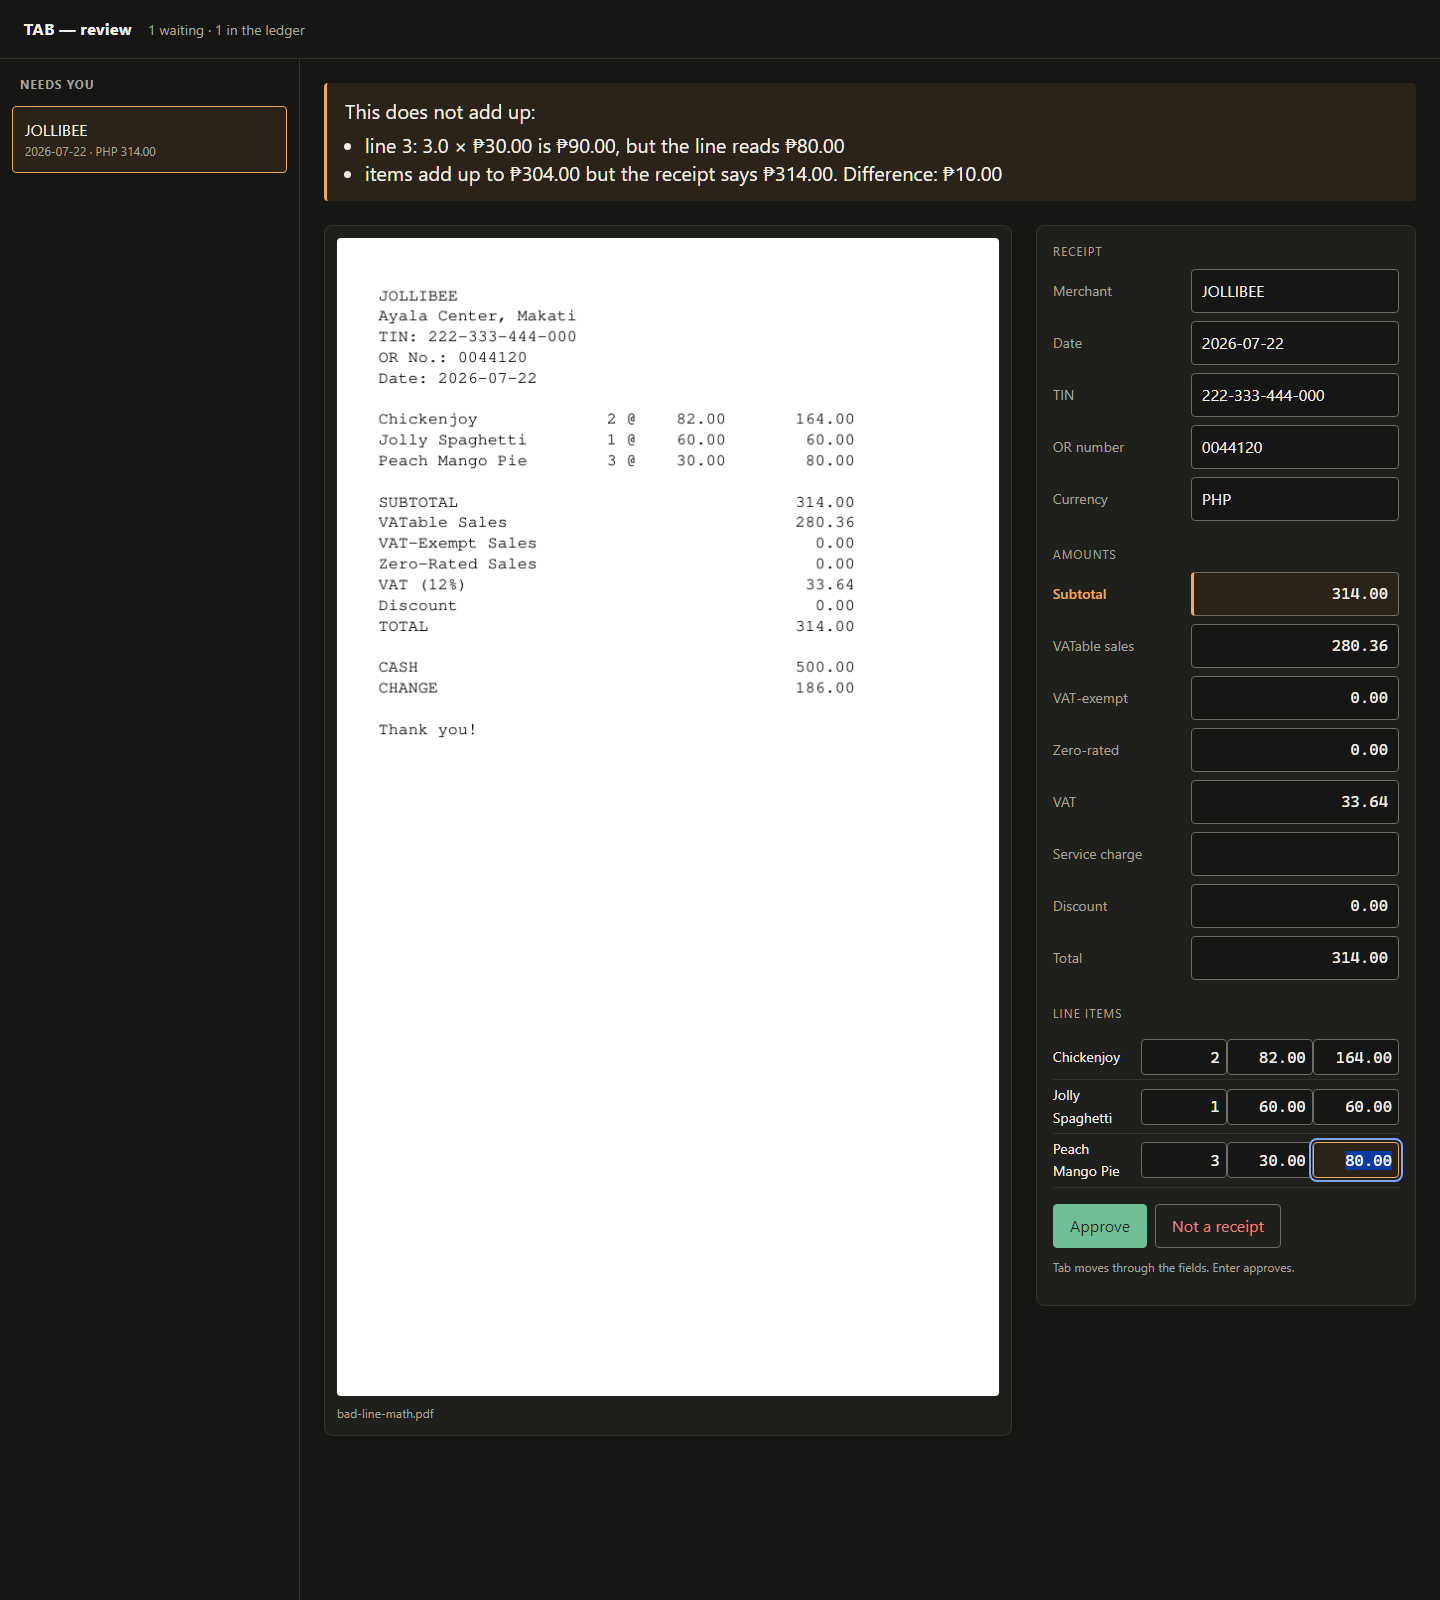
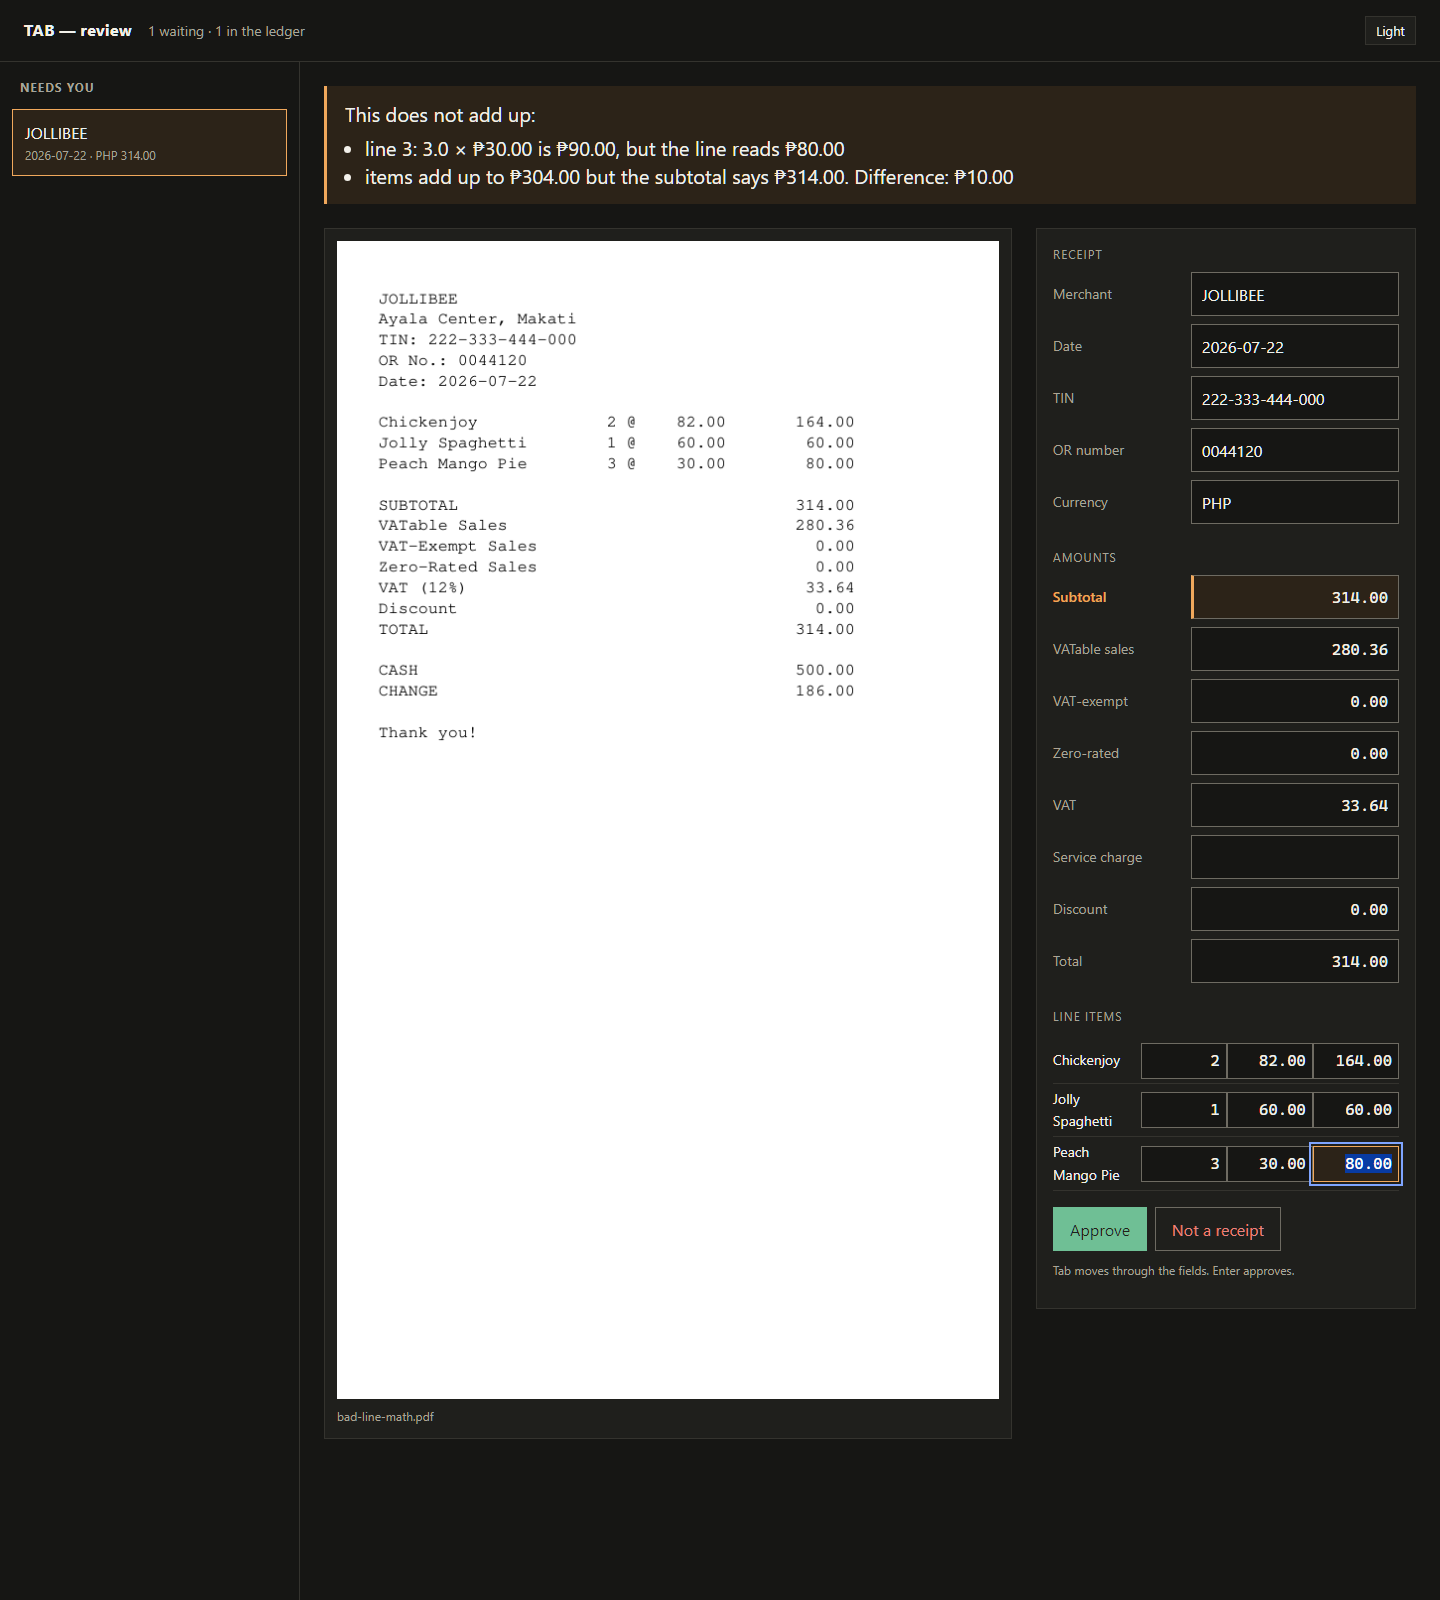
Draw the field bars that were markup with no CSS, and chart what happened to all 100
The field-accuracy table has been building a .meter div with a fill span since
it was written, and nothing in the page ever styled .meter. Every bar was a
zero-height invisible div, so the column read as empty. Same for the "n" class
on the count cell, which is not a class this page has; .num is, and it right-
aligns with tabular figures.

Adds one chart the page did not have: all 100 receipts as a single bar, split
into filed-and-right, filed-and-wrong, queried-and-really-wrong, and queried
for nothing. Every width and count is arithmetic over the scoreboard at load
time, so a re-run moves the chart.

The palette is one accent plus greys, and --proj and --ash are the same hex, so
the segments separate on lightness instead of hue. The one wrong receipt is 1%
of the bar, which rounds to nothing, so segments carry a 3px floor.

diff --git a/docs/index.html b/docs/index.html
@@ -33,7 +33,7 @@
     --rule: #d6d3d1; --rule-2: #a8a29e;
     --proj: #a3006e; --tide: #808080; --switch: #000000;
     --ash: #a3006e; --good: #000000; --track: #ececec;
-    --proj-w: #d7ece5; --tide-w: #ececec; --sw-w: #e5e5e5;
+    --proj-w: #faddf1; --tide-w: #ececec; --sw-w: #e5e5e5;
   }
   @media (prefers-color-scheme: dark) {
     :root:where(:not([data-theme="light"])) {
@@ -43,7 +43,7 @@
     --rule: #262626; --rule-2: #3a3a3a;
     --proj: #e879c6; --tide: #8a8a8a; --switch: #ffffff;
     --ash: #e879c6; --good: #ffffff; --track: #222222;
-    --proj-w: #0d3527; --tide-w: #262626; --sw-w: #262626;
+    --proj-w: #481739; --tide-w: #262626; --sw-w: #262626;
     }
   }
   :root[data-theme="dark"] {
@@ -53,7 +53,7 @@
     --rule: #262626; --rule-2: #3a3a3a;
     --proj: #e879c6; --tide: #8a8a8a; --switch: #ffffff;
     --ash: #e879c6; --good: #ffffff; --track: #222222;
-    --proj-w: #0d3527; --tide-w: #262626; --sw-w: #262626;
+    --proj-w: #481739; --tide-w: #262626; --sw-w: #262626;
   }
 
   :root {
@@ -152,6 +152,14 @@
     border: 1px solid var(--rule-2); background: var(--card); color: var(--ink-2);
   }
   .chip:hover { border-color: var(--switch); color: var(--switch); }
+  .meter { height: 7px; min-width: 96px; background: var(--track);
+           border-radius: 999px; overflow: hidden; }
+  .meter span { display: block; height: 100%; background: var(--proj);
+                border-radius: 999px; }
+  td.meter-cell { width: 45%; }
+  .stack { display: flex; height: 26px; border-radius: 4px; overflow: hidden;
+           background: var(--track); }
+  .stack span { display: block; min-width: 3px; }
   .bar-track { height: 7px; background: var(--track); border-radius: 999px; overflow: hidden; }
   .bar-fill { height: 100%; width: 0; border-radius: 999px; transition: width .18s ease; }
   .verdict {
@@ -676,7 +684,7 @@
         <div><dt>Tests</dt><dd>124</dd></div>
       </dl>
       <div class="side-cta">
-        <a class="pill" id="try-live" href="#" hidden>Try the live app</a>
+        <a class="pill" id="try-live" href="https://tab-demo.onrender.com">Try the live app</a>
         <p class="small muted">Free, no sign-up, nothing stored. After a quiet spell the
         first receipt takes about a minute while the reader loads.</p>
       </div>
@@ -732,11 +740,16 @@
       <div class="cards" id="cards"></div>
       <p class="note" id="cards-note"></p>
       <div class="card"><table id="fields">
-        <thead><tr><th>Field</th><th class="num">Read correctly</th></tr></thead>
+        <thead><tr><th>Field</th><th class="num">Read correctly</th><th><span class="legend"><i style="background:var(--proj)"></i>share of 100</span></th></tr></thead>
         <tbody></tbody>
       </table></div>
       <p class="small muted" id="unscored"></p>
       <div class="note" id="caveat"></div>
+      <figure>
+        <div class="legend" id="fate-legend"></div>
+        <div id="fate"></div>
+        <figcaption id="fate-cap"></figcaption>
+      </figure>
       <p class="caps">The ceiling</p>
       <p id="ceiling-text"></p>
     </div>
@@ -949,14 +962,15 @@
         <img src="img/john.jpg" alt="" width="56" height="56">
         <div>
           <p class="author-name">John Andrei Martinez</p>
-          <p class="author-role">Builds AI tools and measures whether they work, including the times they did not.</p>
+          <p class="author-role">Builds AI tools and measures whether they work, including
+            the times they did not. This page is one of his case studies.</p>
           <a class="author-link" href="https://johnandrei.vercel.app">Visit my portfolio</a>
         </div>
       </div>
     </div>
     <nav aria-label="More">
       <p class="foot-h">This project</p>
-      <a id="foot-demo" href="https://github.com/Zeref538/tab">The live app</a>
+      <a id="foot-demo" href="https://tab-demo.onrender.com">The live app</a>
       <a href="https://github.com/Zeref538/tab">Source code</a>
       <a href="https://github.com/Zeref538/tab/tree/main/results">Raw eval results</a>
       <a href="https://github.com/Zeref538/tab/tree/main/docs/adr">The decisions, and what changed them</a>
@@ -969,13 +983,13 @@
     </nav>
   </div>
   <div class="foot-strip caps">
-    <span>TAB case study</span><span>Python &middot; Ollama &middot; SQLite &middot; no web framework</span><span id="foot-corpus"></span>
+    <span>TAB case study</span><span>Python &middot; Ollama &middot; SQLite &middot; no web framework</span><span>100 receipts from the cord test split</span>
   </div>
   <div class="wrap foot-base small">
     Receipts on this page are generated by <code>tests/fixtures.py</code>: invented
     shops, invented amounts, nobody's real shopping. Scored against CORD, Naver
     Clova, CC BY 4.0. Fonts: Schibsted Grotesk, Newsreader and Sora, SIL OFL.
-    <span id="built"></span>
+    <span>Built 2026-09-29.</span>
   </div>
 </footer>
 
@@ -1076,13 +1090,44 @@ function drawBoard() {
   for (const [field, r] of Object.entries(s.field_accuracy)) {
     const tr = body.insertRow();
     tr.insertCell().textContent = field.replace(/_/g, " ");
-    const n = tr.insertCell(); n.className = "n";
+    const n = tr.insertCell(); n.className = "num";
     n.textContent = `${r.correct}/${r.n}`;
-    const cell = tr.insertCell();
+    const cell = tr.insertCell(); cell.className = "meter-cell";
     const meter = el("div", "meter"), fill = el("span");
     fill.style.width = (r.accuracy * 100) + "%";
     meter.append(fill); cell.append(meter);
   }
+  // What became of all 100 receipts, as one bar. Counts derived from the
+  // scoreboard, never typed: escalation precision times escalated is how many
+  // of the queries were worth making.
+  const wrong = Math.round(a.silent_error_rate * s.n);
+  const justified = Math.round(a.escalation_precision * a.escalated);
+  const fate = [
+    ["filed, and right", a.committed - wrong, "var(--proj)"],
+    ["filed, and wrong", wrong, "var(--ink)"],
+    ["queried, and really wrong", justified, "var(--ink-3)"],
+    ["queried for nothing", a.escalated - justified, "var(--rule-2)"],
+  ];
+  const stack = el("div", "stack");
+  for (const [name, count, colour] of fate) {
+    const seg = el("span");
+    seg.style.width = (count / s.n * 100) + "%";
+    seg.style.background = colour;
+    seg.title = name + ": " + count + " of " + s.n;
+    stack.append(seg);
+    const key = el("span");
+    key.innerHTML = '<i style="background:' + colour + '"></i>' + name
+                  + " " + count;
+    $("fate-legend").append(key);
+  }
+  $("fate").append(stack);
+  $("fate-cap").textContent =
+    "Every receipt in the run, by what happened to it. The two dark blocks in "
+    + "the middle are the ones the arithmetic was for: " + wrong + " slipped "
+    + "through wrong, " + justified + " were caught. The last block is the cost "
+    + "of catching them, " + (a.escalated - justified) + " receipts held back "
+    + "that were fine.";
+
   $("unscored").textContent =
     "Not scored on this corpus, because CORD does not label them: "
     + s.unscoreable_fields.join(", ") + ".";
@@ -1097,11 +1142,6 @@ function drawBoard() {
 
   // Only shown once the demo is actually deployed and TAB_DEMO_URL was set at
   // build time. A "try it live" button that 404s is worse than no button.
-  if (DATA.demo_url) {
-    const live = $("try-live");
-    live.href = DATA.demo_url;
-    live.hidden = false;
-  }
 
   drawReaders();
 
@@ -1115,7 +1155,6 @@ function drawBoard() {
       + `through no matter how well anything reads it.`
     : "";
 
-  $("built").textContent = "Built " + DATA.built + ".";
 }
 
 function drawReplay() {
@@ -1194,12 +1233,6 @@ function heroDemo() {
 
 drawHero();
 heroDemo();
-
-// The footer's live-app link and corpus strip, from DATA for the same reason as
-// everything else: a link typed here goes stale the moment the demo moves.
-if (DATA.demo_url) $("foot-demo").href = DATA.demo_url;
-$("foot-corpus").textContent =
-  `${DATA.scoreboard.n} receipts from the ${DATA.scoreboard.corpus} test split`;
 drawBoard();
 drawReplay();
 

diff --git a/tools/site_template.html b/tools/site_template.html
@@ -33,7 +33,7 @@
     --rule: #d6d3d1; --rule-2: #a8a29e;
     --proj: #a3006e; --tide: #808080; --switch: #000000;
     --ash: #a3006e; --good: #000000; --track: #ececec;
-    --proj-w: #d7ece5; --tide-w: #ececec; --sw-w: #e5e5e5;
+    --proj-w: #faddf1; --tide-w: #ececec; --sw-w: #e5e5e5;
   }
   @media (prefers-color-scheme: dark) {
     :root:where(:not([data-theme="light"])) {
@@ -43,7 +43,7 @@
     --rule: #262626; --rule-2: #3a3a3a;
     --proj: #e879c6; --tide: #8a8a8a; --switch: #ffffff;
     --ash: #e879c6; --good: #ffffff; --track: #222222;
-    --proj-w: #0d3527; --tide-w: #262626; --sw-w: #262626;
+    --proj-w: #481739; --tide-w: #262626; --sw-w: #262626;
     }
   }
   :root[data-theme="dark"] {
@@ -53,7 +53,7 @@
     --rule: #262626; --rule-2: #3a3a3a;
     --proj: #e879c6; --tide: #8a8a8a; --switch: #ffffff;
     --ash: #e879c6; --good: #ffffff; --track: #222222;
-    --proj-w: #0d3527; --tide-w: #262626; --sw-w: #262626;
+    --proj-w: #481739; --tide-w: #262626; --sw-w: #262626;
   }
 
   :root {
@@ -152,6 +152,14 @@
     border: 1px solid var(--rule-2); background: var(--card); color: var(--ink-2);
   }
   .chip:hover { border-color: var(--switch); color: var(--switch); }
+  .meter { height: 7px; min-width: 96px; background: var(--track);
+           border-radius: 999px; overflow: hidden; }
+  .meter span { display: block; height: 100%; background: var(--proj);
+                border-radius: 999px; }
+  td.meter-cell { width: 45%; }
+  .stack { display: flex; height: 26px; border-radius: 4px; overflow: hidden;
+           background: var(--track); }
+  .stack span { display: block; min-width: 3px; }
   .bar-track { height: 7px; background: var(--track); border-radius: 999px; overflow: hidden; }
   .bar-fill { height: 100%; width: 0; border-radius: 999px; transition: width .18s ease; }
   .verdict {
@@ -676,7 +684,7 @@
         <div><dt>Tests</dt><dd>124</dd></div>
       </dl>
       <div class="side-cta">
-        <a class="pill" id="try-live" href="#" hidden>Try the live app</a>
+        <a class="pill" id="try-live" href="__DEMO__">Try the live app</a>
         <p class="small muted">Free, no sign-up, nothing stored. After a quiet spell the
         first receipt takes about a minute while the reader loads.</p>
       </div>
@@ -732,11 +740,16 @@
       <div class="cards" id="cards"></div>
       <p class="note" id="cards-note"></p>
       <div class="card"><table id="fields">
-        <thead><tr><th>Field</th><th class="num">Read correctly</th></tr></thead>
+        <thead><tr><th>Field</th><th class="num">Read correctly</th><th><span class="legend"><i style="background:var(--proj)"></i>share of 100</span></th></tr></thead>
         <tbody></tbody>
       </table></div>
       <p class="small muted" id="unscored"></p>
       <div class="note" id="caveat"></div>
+      <figure>
+        <div class="legend" id="fate-legend"></div>
+        <div id="fate"></div>
+        <figcaption id="fate-cap"></figcaption>
+      </figure>
       <p class="caps">The ceiling</p>
       <p id="ceiling-text"></p>
     </div>
@@ -949,14 +962,15 @@
         <img src="img/john.jpg" alt="" width="56" height="56">
         <div>
           <p class="author-name">John Andrei Martinez</p>
-          <p class="author-role">Builds AI tools and measures whether they work, including the times they did not.</p>
+          <p class="author-role">Builds AI tools and measures whether they work, including
+            the times they did not. This page is one of his case studies.</p>
           <a class="author-link" href="https://johnandrei.vercel.app">Visit my portfolio</a>
         </div>
       </div>
     </div>
     <nav aria-label="More">
       <p class="foot-h">This project</p>
-      <a id="foot-demo" href="__REPO__">The live app</a>
+      <a id="foot-demo" href="__DEMO__">The live app</a>
       <a href="__REPO__">Source code</a>
       <a href="__REPO__/tree/main/results">Raw eval results</a>
       <a href="__REPO__/tree/main/docs/adr">The decisions, and what changed them</a>
@@ -969,13 +983,13 @@
     </nav>
   </div>
   <div class="foot-strip caps">
-    <span>TAB case study</span><span>Python &middot; Ollama &middot; SQLite &middot; no web framework</span><span id="foot-corpus"></span>
+    <span>TAB case study</span><span>Python &middot; Ollama &middot; SQLite &middot; no web framework</span><span>__CORPUS__</span>
   </div>
   <div class="wrap foot-base small">
     Receipts on this page are generated by <code>tests/fixtures.py</code>: invented
     shops, invented amounts, nobody's real shopping. Scored against CORD, Naver
     Clova, CC BY 4.0. Fonts: Schibsted Grotesk, Newsreader and Sora, SIL OFL.
-    <span id="built"></span>
+    <span>Built __BUILT__.</span>
   </div>
 </footer>
 
@@ -1076,13 +1090,44 @@ function drawBoard() {
   for (const [field, r] of Object.entries(s.field_accuracy)) {
     const tr = body.insertRow();
     tr.insertCell().textContent = field.replace(/_/g, " ");
-    const n = tr.insertCell(); n.className = "n";
+    const n = tr.insertCell(); n.className = "num";
     n.textContent = `${r.correct}/${r.n}`;
-    const cell = tr.insertCell();
+    const cell = tr.insertCell(); cell.className = "meter-cell";
     const meter = el("div", "meter"), fill = el("span");
     fill.style.width = (r.accuracy * 100) + "%";
     meter.append(fill); cell.append(meter);
   }
+  // What became of all 100 receipts, as one bar. Counts derived from the
+  // scoreboard, never typed: escalation precision times escalated is how many
+  // of the queries were worth making.
+  const wrong = Math.round(a.silent_error_rate * s.n);
+  const justified = Math.round(a.escalation_precision * a.escalated);
+  const fate = [
+    ["filed, and right", a.committed - wrong, "var(--proj)"],
+    ["filed, and wrong", wrong, "var(--ink)"],
+    ["queried, and really wrong", justified, "var(--ink-3)"],
+    ["queried for nothing", a.escalated - justified, "var(--rule-2)"],
+  ];
+  const stack = el("div", "stack");
+  for (const [name, count, colour] of fate) {
+    const seg = el("span");
+    seg.style.width = (count / s.n * 100) + "%";
+    seg.style.background = colour;
+    seg.title = name + ": " + count + " of " + s.n;
+    stack.append(seg);
+    const key = el("span");
+    key.innerHTML = '<i style="background:' + colour + '"></i>' + name
+                  + " " + count;
+    $("fate-legend").append(key);
+  }
+  $("fate").append(stack);
+  $("fate-cap").textContent =
+    "Every receipt in the run, by what happened to it. The two dark blocks in "
+    + "the middle are the ones the arithmetic was for: " + wrong + " slipped "
+    + "through wrong, " + justified + " were caught. The last block is the cost "
+    + "of catching them, " + (a.escalated - justified) + " receipts held back "
+    + "that were fine.";
+
   $("unscored").textContent =
     "Not scored on this corpus, because CORD does not label them: "
     + s.unscoreable_fields.join(", ") + ".";
@@ -1097,11 +1142,6 @@ function drawBoard() {
 
   // Only shown once the demo is actually deployed and TAB_DEMO_URL was set at
   // build time. A "try it live" button that 404s is worse than no button.
-  if (DATA.demo_url) {
-    const live = $("try-live");
-    live.href = DATA.demo_url;
-    live.hidden = false;
-  }
 
   drawReaders();
 
@@ -1115,7 +1155,6 @@ function drawBoard() {
       + `through no matter how well anything reads it.`
     : "";
 
-  $("built").textContent = "Built " + DATA.built + ".";
 }
 
 function drawReplay() {
@@ -1194,12 +1233,6 @@ function heroDemo() {
 
 drawHero();
 heroDemo();
-
-// The footer's live-app link and corpus strip, from DATA for the same reason as
-// everything else: a link typed here goes stale the moment the demo moves.
-if (DATA.demo_url) $("foot-demo").href = DATA.demo_url;
-$("foot-corpus").textContent =
-  `${DATA.scoreboard.n} receipts from the ${DATA.scoreboard.corpus} test split`;
 drawBoard();
 drawReplay();
 

diff --git a/tools/build_site.py b/tools/build_site.py
@@ -233,9 +233,15 @@ def main(argv=None) -> int:
         "built": date.today().isoformat(),
     }
     out.parent.mkdir(parents=True, exist_ok=True)
-    out.write_text(
-        TEMPLATE.replace("__DATA__", json.dumps(payload, ensure_ascii=False)),
-        encoding="utf-8", newline="\n")
+    # The footer's sample size and build date are written into the HTML here
+    # rather than by a script on load, so they still say something with
+    # JavaScript switched off. Still generated from the results, just earlier.
+    page = (TEMPLATE
+            .replace("__DATA__", json.dumps(payload, ensure_ascii=False))
+            .replace("__CORPUS__", f"{scoreboard['n']} receipts from the "
+                                   f"{scoreboard['corpus']} test split")
+            .replace("__BUILT__", payload["built"]))
+    out.write_text(page, encoding="utf-8", newline="\n")
     # Without this, GitHub Pages runs the markdown in docs/ through Jekyll.
     (out.parent / ".nojekyll").write_text("", encoding="utf-8")
 
@@ -271,6 +277,10 @@ def main(argv=None) -> int:
 # and every escape in it is one more thing a shell can mangle on the way in.
 TEMPLATE = (Path(__file__).resolve().parent / "site_template.html").read_text(
     encoding="utf-8").replace("__REPO__", REPO)
+# The live-app URL belongs in the HTML, not in a script that patches it
+# afterwards: a reader with JavaScript off should still get the right link,
+# not a dead one. Falls back to the repo when there is no deploy to point at.
+TEMPLATE = TEMPLATE.replace("__DEMO__", DEMO_URL or REPO)
 
 # Screenshots the page shows. Copied rather than referenced out of build/ so the
 # published folder is self-contained; regenerate them with tools/screenshot.py.
